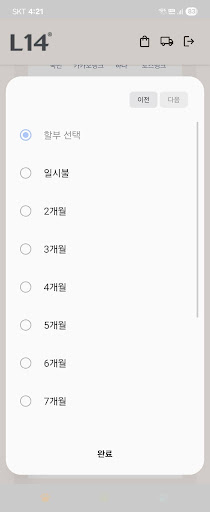
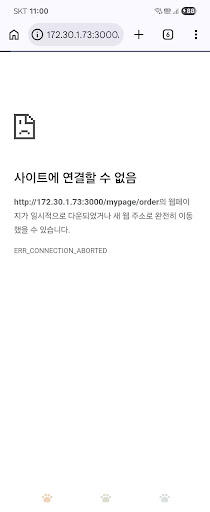
Fix NOT_CANCELABLE_AMOUNT error for pre-canceled virtual accounts

diff --git a/app/api/anorder/route.ts b/app/api/anorder/route.ts
@@ -95,7 +95,7 @@ export async function GET(req: Request) {
               // If already canceled, Toss returns a specific error we could ignore, but let's log it
               console.error(`Toss cancel failed for order ${id}:`, errData);
               // Only fail if it's a critical error, otherwise proceed
-              if (errData.code !== 'ALREADY_CANCELED_PAYMENT') {
+              if (errData.code !== 'ALREADY_CANCELED_PAYMENT' && errData.code !== 'NOT_CANCELABLE_AMOUNT') {
                 return NextResponse.json({ success: false, message: '토스 결제 취소에 실패했습니다: ' + (errData.message || 'Unknown') }, { status: 400 });
               }
             }

diff --git a/app/api/cron/check-delivery/route.ts b/app/api/cron/check-delivery/route.ts
@@ -218,8 +218,11 @@ export async function GET(req: Request) {
                 }),
               });
               const data = await res.json();
-              if (res.ok || data.code === 'ALREADY_CANCELED_PAYMENT') {
+              if (res.ok || data.code === 'ALREADY_CANCELED_PAYMENT' || data.code === 'NOT_CANCELABLE_AMOUNT') {
                 tossOk = true;
+                if (!res.ok) {
+                  console.log(`[check-delivery] Toss cancel already processed for order ${order.id} (${data.code})`);
+                }
               } else {
                 console.error(`[check-delivery] Toss cancel failed for order ${order.id}:`, data);
               }
